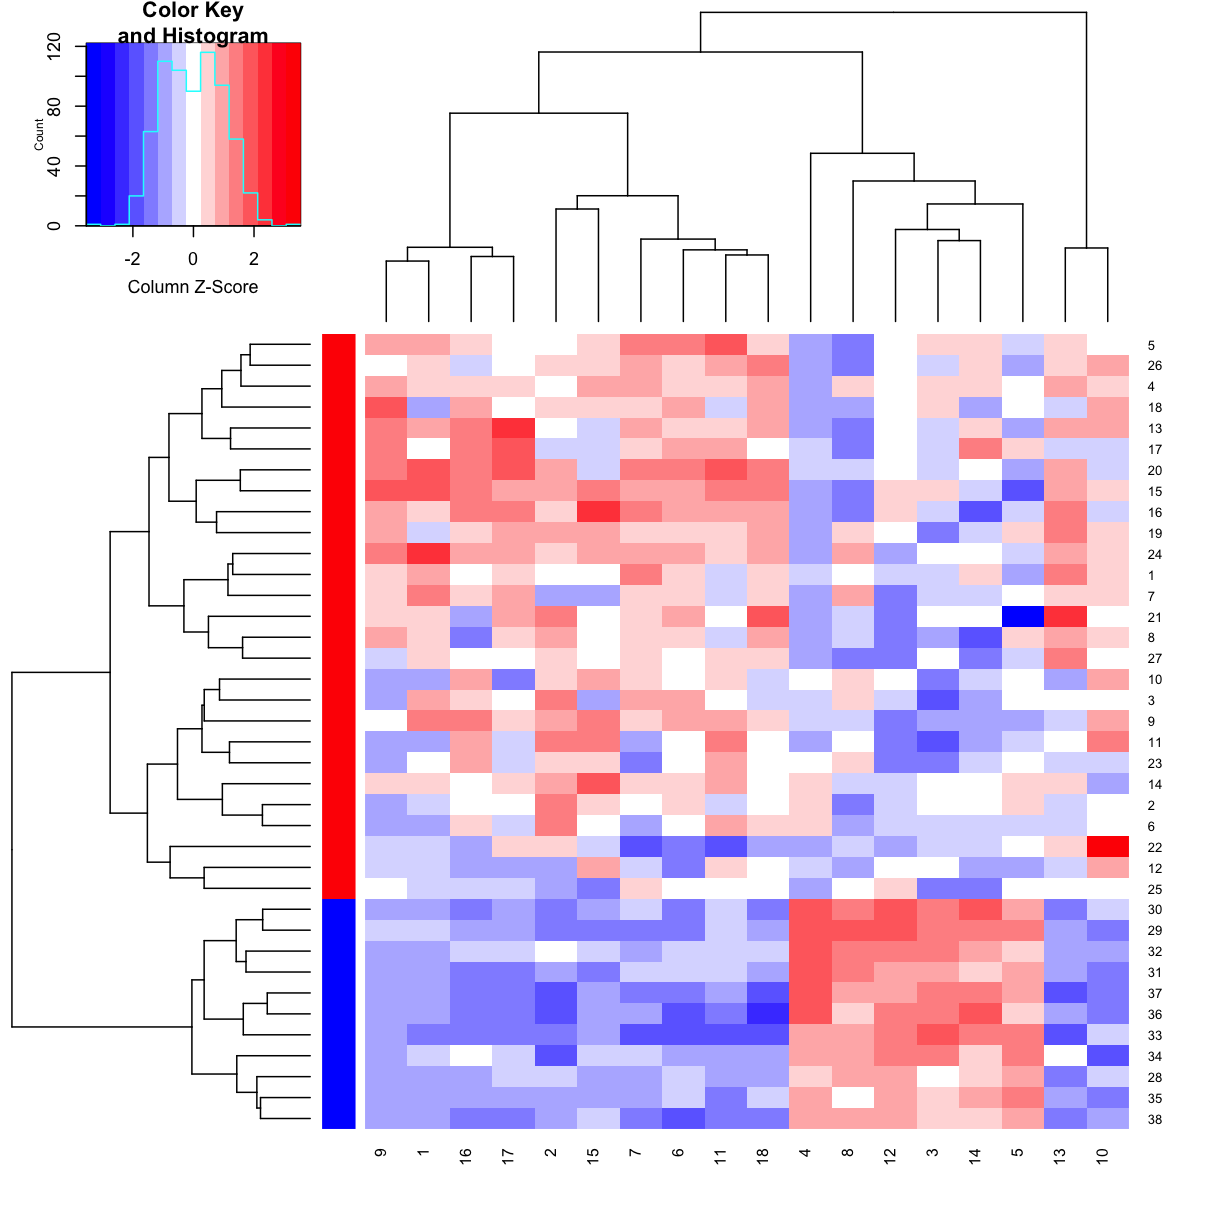
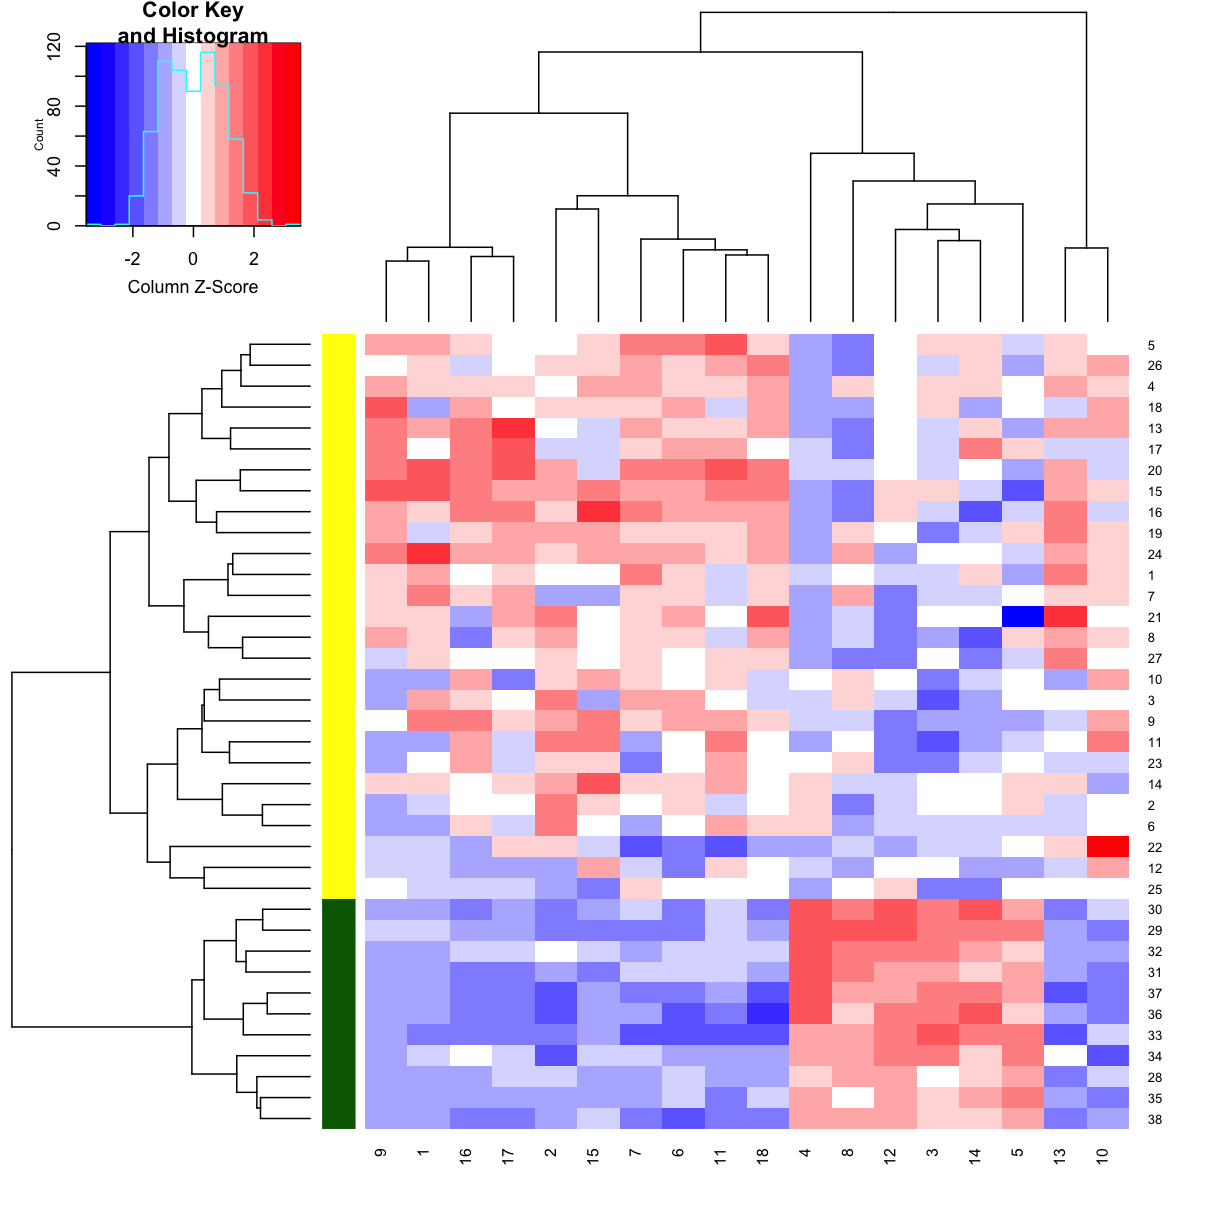
add plot of cumulative sum PCA variance

Changed region(s): [[0.2484, 0.2484, 0.3105, 0.9314]]

diff --git a/_episodes/10-BMC_R_Day3_B.md b/_episodes/10-BMC_R_Day3_B.md
@@ -22,7 +22,10 @@ exercises: 25
 We have previously shown you how to wrangle your data into the right shape with the tidyverse. Now onto hypothesis testing and statistical analysis. 
 
 
-Our aim here is not to teach you statistics, but how to use R to perform the most popular statistical analysis on your data.
+Our aim here is not to teach you statistics, but how to use R to perform the most popular statistical analysis on your data. For statistical consultation, please contact Sydney Informatics Hub's statistics team. 
+
+"To consult the statistician after an experiment is finished is often merely to ask him to conduct a post mortem examination. He can perhaps say what the experiment died of"
+  - Ronald Fisher 1938
 
 
 The data for this session can be [downloaded from here](https://raw.githubusercontent.com/Sydney-Informatics-Hub/lessonbmc/gh-pages/_episodes_rmd/data/gait_clean.csv). This is a selection of datapoints from a database of demographic and clinical measurements of Parkinson's patients and controls. More information about this dataset can be found at http://physionet.org/physiobank/database/gaitpdb/.
@@ -176,7 +179,7 @@ ggplot(gait, aes(y=TUAG, x = Group)) +
 ~~~
 {: .language-r}
 
-
+<img src="../fig/rmd-10-unnamed-chunk-5-1.png" title="plot of chunk unnamed-chunk-5" alt="plot of chunk unnamed-chunk-5" width="612" style="display: block; margin: auto;" />
 
 ~~~
 # have a bit of fun and change the plot to the Wall St Journal's style
@@ -186,6 +189,8 @@ ggplot(gait, aes(y=TUAG, x = Group,fill = Group)) +
   theme_wsj()
 ~~~
 {: .language-r}
+
+<img src="../fig/rmd-10-unnamed-chunk-5-2.png" title="plot of chunk unnamed-chunk-5" alt="plot of chunk unnamed-chunk-5" width="612" style="display: block; margin: auto;" />
 > ## Section quiz
 > 1. Perform the Welch 2-sample t-test for TUAG by gender? Generate violin plots of this.
 > {: .source}
@@ -248,7 +253,7 @@ ggplot(gait, aes(y=TUAG, x = Study)) +
 <img src="../fig/rmd-10-unnamed-chunk-7-1.png" title="plot of chunk unnamed-chunk-7" alt="plot of chunk unnamed-chunk-7" width="612" style="display: block; margin: auto;" />
 
 
-Let's assume that the ANOVA did show difference in means between groups. We can do post-hoc tests. For example, we can perform multiple pairwise-comparison between the means of groups using Tukey Honest Significant Differences
+Let's assume that the we had sufficient evidence from the ANOVA to reject the null. We can then perform post-hoc tests. For example, we can perform multiple pairwise-comparison between the means of groups using Tukey Honest Significant Differences
 
 ~~~
 TukeyHSD(aov_study)
@@ -275,26 +280,14 @@ Si-Ju -0.8373877 -2.5182543 0.843479 0.4638330
 R has a variety of statistical tests available. Google is your best friend here.
 
 
-## Simple linear regression
+## Linear regression
 
 Let's say that for the Parksinson's patients, we want to make a model to predict `UPDRS` score using the `UPDRSM` 
 
 ~~~
 gait_pd <- gait %>%
   filter(Group == "PD")
-~~~
-{: .language-r}
 
-
-
-~~~
-Warning: package 'bindrcpp' was built under R version 3.4.4
-~~~
-{: .error}
-
-
-
-~~~
 # Let's plot this first
 ggplot(gait_pd, aes(x = UPDRSM, y = UPDRS)) +
   geom_point() +
@@ -456,7 +449,7 @@ pca_plotdata <- data.frame(pca$x)
 pca_plotdata <- pca_plotdata %>%
   mutate(samples = as.factor(golub.cl)) 
 
-# plot with ggplot
+# plot PC1 and PC2 with ggplot
 ggplot(pca_plotdata, aes(x = PC1, y = PC2, colour = samples)) +
   geom_point()
 ~~~
@@ -465,7 +458,7 @@ ggplot(pca_plotdata, aes(x = PC1, y = PC2, colour = samples)) +
 <img src="../fig/rmd-10-unnamed-chunk-12-1.png" title="plot of chunk unnamed-chunk-12" alt="plot of chunk unnamed-chunk-12" width="612" style="display: block; margin: auto;" />
 
 ~~~
-# inspect the cumulative proportion of variance explained
+# inspect the cumulative proportion of variance explained by each PC
 summary(pca)
 ~~~
 {: .language-r}
@@ -506,7 +499,17 @@ Cumulative Proportion  1.00000 1.000e+00
 {: .output}
 
 
-## Visualisation and clustering with gplots and heatmap.2()
+
+~~~
+# quickly plot the cumulative proportion of variance explained using base R's plotting function
+plot(summary(pca)$importance["Cumulative Proportion",])
+~~~
+{: .language-r}
+
+<img src="../fig/rmd-10-unnamed-chunk-12-2.png" title="plot of chunk unnamed-chunk-12" alt="plot of chunk unnamed-chunk-12" width="612" style="display: block; margin: auto;" />
+
+
+## Clustering and heatmap
 
 ~~~
 # please install gplots prior to running the below code by running: install.packages("gplots")
@@ -519,7 +522,7 @@ favgenes <- c(703,717,766,829,896,1037,1334,1665,1817,1834,2002,2124,2386,2600,2
 heatmap.2(golub[ ,favgenes], 
           trace = "none",
           scale = "column",
-          RowSideColors = c(rep("red", 27), rep("blue", 11)),
+          RowSideColors = c(rep("yellow", 27), rep("darkgreen", 11)),
           dendrogram = "both", 
           col = "bluered")
 ~~~
